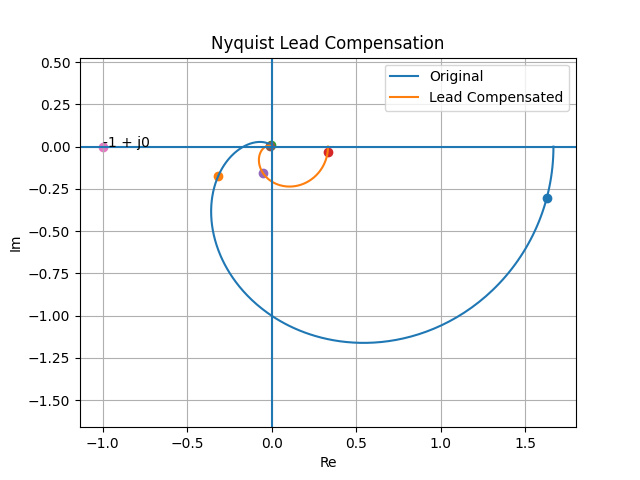
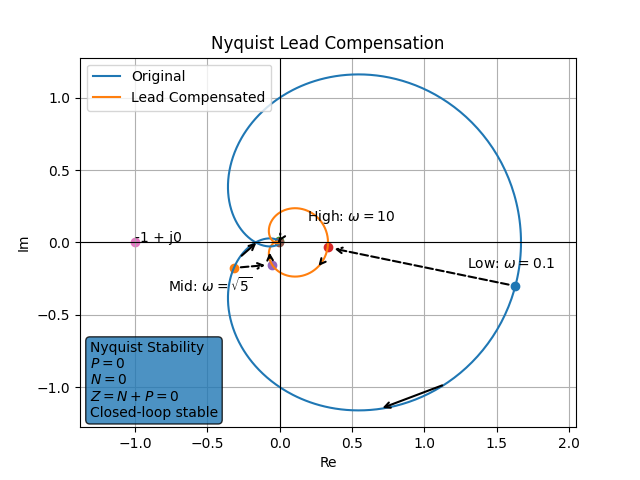
Added improvements to the lead compensation visualization for NyquistDesign, including further improvements in describing the original contour versus the lead-compensated contour, the lead's behavior, and the stability of the system represented.

diff --git a/python/plotting/nyquist_design_plot.py b/python/plotting/nyquist_design_plot.py
@@ -41,6 +41,18 @@ def find_nearest_frequency_index(frequencies, target_frequency):
 
   return nearest_index
 
+# Helper function for plotting the contour direction arrows
+def add_contour_arrow(real_values, imaginary_values, start_idx, end_idx):
+  plt.annotate(
+    "",
+    xy=(real_values[end_idx], imaginary_values[end_idx]),
+    xytext=(real_values[start_idx], imaginary_values[start_idx]),
+    arrowprops=dict(
+      arrowstyle="->",
+      linewidth=1.5
+    )
+  )
+
 def plot_lead_design(frequencies, original_real, original_imaginary, compensated_real, compensated_imaginary):
   # Create a brand new lead design figure
   plt.figure()
@@ -52,7 +64,14 @@ def plot_lead_design(frequencies, original_real, original_imaginary, compensated
 
   low_index = find_nearest_frequency_index(frequencies, low_frequency)
   mid_index = find_nearest_frequency_index(frequencies, mid_frequency)
-  high_index = find_nearest_frequency_index(frequencies, high_frequency)  
+  high_index = find_nearest_frequency_index(frequencies, high_frequency)
+
+  # Calculate where the contour arrows should start and end
+  original_arrow_1_start = find_nearest_frequency_index(frequencies, 0.4)
+  original_arrow_1_end = find_nearest_frequency_index(frequencies, 0.6)
+
+  original_arrow_2_start = find_nearest_frequency_index(frequencies, 2.5)
+  original_arrow_2_end = find_nearest_frequency_index(frequencies, 3.5)  
 
   # Plot the contour for the original response
   plt.plot(
@@ -68,6 +87,24 @@ def plot_lead_design(frequencies, original_real, original_imaginary, compensated
     label="Lead Compensated"
   )
 
+  # Plot the mirrored branches for negative frequencies
+  plt.plot(original_real, [-y for y in original_imaginary], color="tab:blue")
+  plt.plot(compensated_real, [-y for y in compensated_imaginary], color="tab:orange")
+
+  # Describe how the system remains stable
+  plt.text(
+    0.02,
+    0.02,
+    "Nyquist Stability\n"
+    r"$P = 0$" "\n"
+    r"$N = 0$" "\n"
+    r"$Z = N + P = 0$" "\n"
+    "Closed-loop stable",
+    transform=plt.gca().transAxes,
+    verticalalignment="bottom",
+    bbox=dict(boxstyle="round", alpha=0.8)
+  )
+
   # Add the low/mid/high markers for the unaltered response
   plt.scatter(original_real[low_index], original_imaginary[low_index])
   plt.scatter(original_real[mid_index], original_imaginary[mid_index])
@@ -78,9 +115,99 @@ def plot_lead_design(frequencies, original_real, original_imaginary, compensated
   plt.scatter(compensated_real[mid_index], compensated_imaginary[mid_index])
   plt.scatter(compensated_real[high_index], compensated_imaginary[high_index])
 
+  # Add annotations to the low/mid/high markers added
+  plt.annotate(
+    r"Low: $\omega = 0.1$",
+    xy=(compensated_real[low_index], compensated_imaginary[low_index]),
+    xytext=(100, -15),
+    textcoords="offset points"
+  )
+
+  plt.annotate(
+    r"Mid: $\omega = \sqrt{5}$",
+    xy=(compensated_real[mid_index], compensated_imaginary[mid_index]),
+    xytext=(-75, -20),
+    textcoords="offset points"
+  )
+
+  plt.annotate(
+    r"High: $\omega = 10$",
+    xy=(compensated_real[high_index], compensated_imaginary[high_index]),
+    xytext=(20, 15),
+    textcoords="offset points"
+  )
+
+  # Show how Lead compensation moves the low-frequency point
+  plt.annotate(
+      "",
+      xy=(compensated_real[low_index], compensated_imaginary[low_index]),
+      xytext=(original_real[low_index], original_imaginary[low_index]),
+      arrowprops=dict(
+          arrowstyle="->",
+          linestyle="--",
+          linewidth=1.5,
+          shrinkA=5,
+          shrinkB=5
+      )
+  )
+
+  # Show how Lead compensation moves the mid-frequency point
+  plt.annotate(
+      "",
+      xy=(compensated_real[mid_index], compensated_imaginary[mid_index]),
+      xytext=(original_real[mid_index], original_imaginary[mid_index]),
+      arrowprops=dict(
+          arrowstyle="->",
+          linestyle="--",
+          linewidth=1.5,
+          shrinkA=5,
+          shrinkB=5
+      )
+  )
+
+  # Show how Lead compensation moves the high-frequency point
+  plt.annotate(
+      "",
+      xy=(compensated_real[high_index], compensated_imaginary[high_index]),
+      xytext=(original_real[high_index], original_imaginary[high_index]),
+      arrowprops=dict(
+          arrowstyle="->",
+          linestyle="--",
+          linewidth=1.5,
+          shrinkA=5,
+          shrinkB=5
+      )
+  )
+
+  # Add the direction arrows
+  add_contour_arrow(
+    original_real,
+    original_imaginary,
+    original_arrow_1_start,
+    original_arrow_1_end
+  )
+  add_contour_arrow(
+    original_real,
+    original_imaginary,
+    original_arrow_2_start,
+    original_arrow_2_end
+  )
+  add_contour_arrow(
+    compensated_real,
+    compensated_imaginary,
+    original_arrow_1_start,
+    original_arrow_1_end
+  )
+  add_contour_arrow(
+    compensated_real,
+    compensated_imaginary,
+    original_arrow_2_start,
+    original_arrow_2_end
+  )
+
   # Add the horizontal real-axis line and vertical imaginary axis line
-  plt.axhline(0)
-  plt.axvline(0)
+  plt.axhline(0, color="black", linewidth=0.8)
+  plt.axvline(0, color="black", linewidth=0.8)
 
   # Add the critical point and the corresponding label
   plt.scatter(-1, 0)
